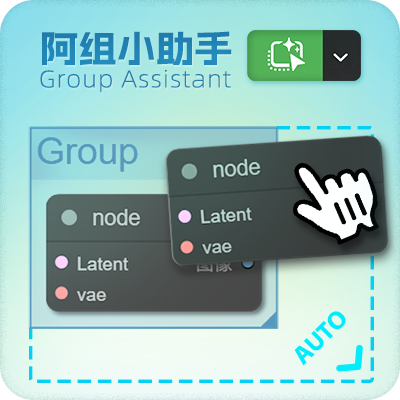
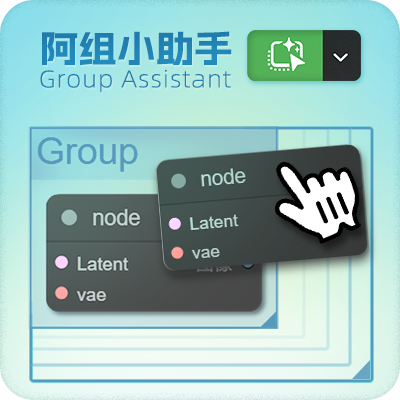
修复删除组内节点后出现幽灵对象的问题

Changed region(s): [[0.06, 0.3, 0.99, 0.96], [0.6, 0.63, 0.63, 0.69]]

diff --git a/js/group_assistant.js b/js/group_assistant.js
@@ -939,9 +939,48 @@ app.registerExtension({
                     }
                 };
 
-                // 监听组的删除 - 劫持 LGraph 的 remove 方法
+                // 监听删除 - 劫持 LGraph 的 remove 方法（节点与组均处理）
                 const originalRemove = app.graph.remove;
                 app.graph.remove = function (node_or_group) {
+                    // 新增：如果是节点且功能已启用，先清理父组并在删除后刷新边界
+                    if (state.hijackEnabled && node_or_group instanceof LiteGraph.LGraphNode) {
+                        try {
+                            const parentGroup = node_or_group.group;
+                            if (parentGroup && !parentGroup._isDeleted) {
+                                if (parentGroup._nodes) {
+                                    parentGroup._nodes = parentGroup._nodes.filter(n => n !== node_or_group);
+                                }
+                                if (parentGroup._children) {
+                                    parentGroup._children.delete(node_or_group);
+                                }
+                                node_or_group.group = null;
+                            }
+
+                            const result = originalRemove.apply(this, arguments);
+
+                            // 删除完成后刷新受影响的组边界（包含祖先）
+                            if (parentGroup && !parentGroup._isDeleted) {
+                                setTimeout(() => {
+                                    try {
+                                        updateGroupBoundary(parentGroup, true, null, true);
+                                        let p = parentGroup.group;
+                                        while (p && !p._isDeleted) {
+                                            updateGroupBoundary(p, true, null, true);
+                                            p = p.group;
+                                        }
+                                        if (app.canvas) app.canvas.setDirty(true, true);
+                                    } catch (err) {
+                                        logger.error("删除节点后更新组边界失败:", err);
+                                    }
+                                }, 0);
+                            }
+                            return result;
+                        } catch (error) {
+                            logger.error("删除节点时出错:", error);
+                            return originalRemove.apply(this, arguments);
+                        }
+                    }
+
                     // 如果是组且功能已启用，处理其子节点和子组
                     if (node_or_group instanceof LiteGraph.LGraphGroup && state.hijackEnabled) {
                         logger.debug(`检测到组删除: ${node_or_group.title || "未命名组"}`);

diff --git a/js/utils/boundary.js b/js/utils/boundary.js
@@ -111,21 +111,25 @@ export function updateGroupBoundary(group, updateParents = true, processedGroups
         // 收集所有需要考虑的元素（节点和子组）
         const allElements = [];
 
-        // 添加节点
+        // 添加节点（过滤已被删除或已从图中移除的节点）
         if (group._nodes && group._nodes.length > 0) {
-            allElements.push(...group._nodes.filter(node => node != null));
+            allElements.push(
+                ...group._nodes.filter(node => node != null && node.graph)
+            );
         }
 
-        // 添加子组
+        // 添加子项（子组与子节点），并过滤无效对象
         if (group._children) {
             for (const child of group._children) {
                 if (!child) continue;
 
                 if (child instanceof window.LGraphGroup) {
                     allElements.push(child);
-                } else if (child instanceof window.LGraphNode && !allElements.includes(child)) {
-                    // 确保所有节点类型的子元素都被考虑
-                    allElements.push(child);
+                } else if (child instanceof window.LGraphNode) {
+                    // 仅包含仍隶属于图的节点
+                    if (child.graph && !allElements.includes(child)) {
+                        allElements.push(child);
+                    }
                 }
             }
         }
